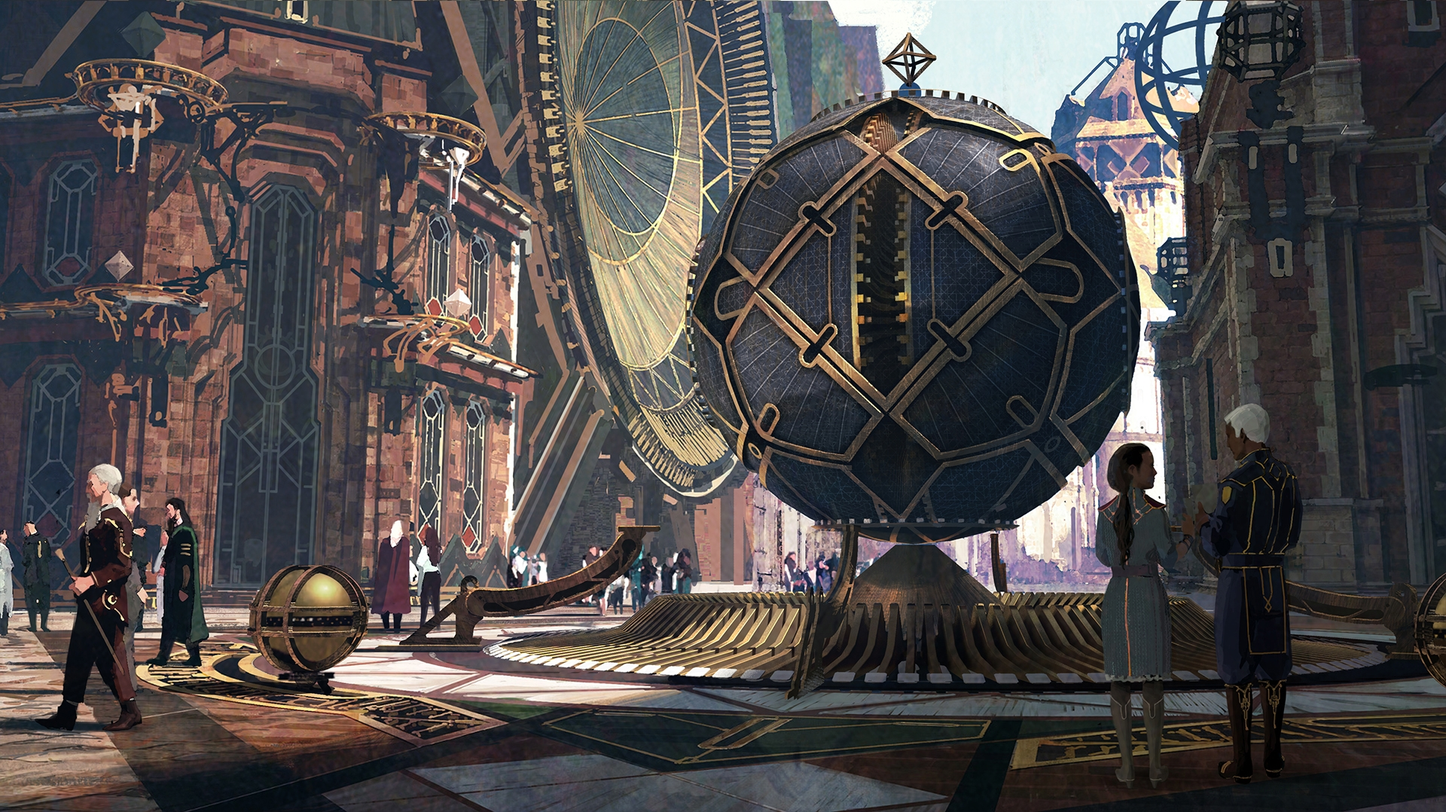
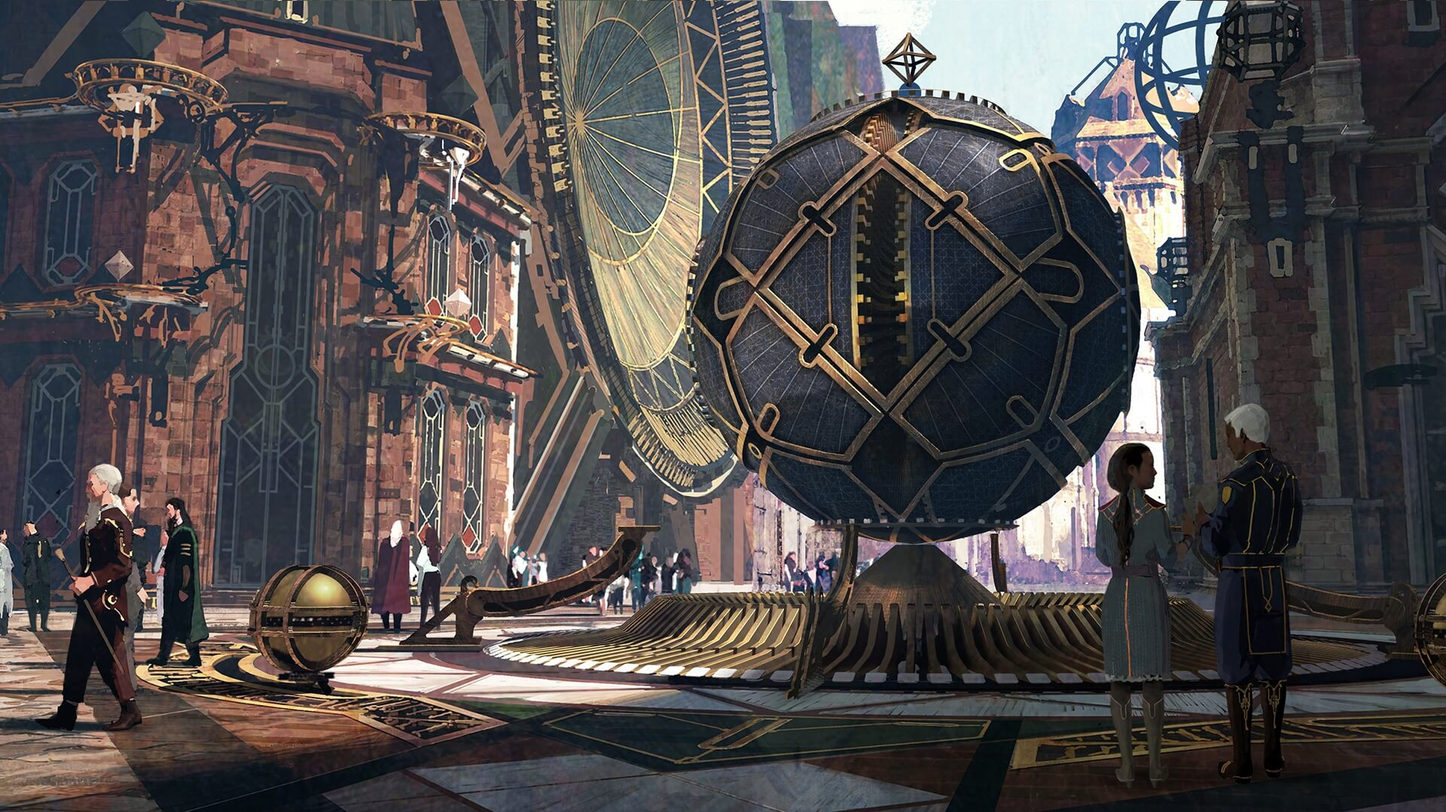
compresion de imagen y mejorando el rendimiento

diff --git a/index.html b/index.html
@@ -26,7 +26,7 @@
 <body>
     <header class="header">
         <div class="logo">
-            <a href="#"><img src="./img/logo/arcane_logo_freelogovectors.net_.png" alt="arcane logo" /></a>
+            <a href="#"><img src="https://lh3.googleusercontent.com/pImOIQNFSvZngOHh1W_eIHVp3qZNaP96nC9pD8wjGWYpblSEdJZ3_85JJfHnCHDLu1Xghpiffpw1s7b_6Vhs=w1058-h661-rw" alt="arcane logo" /></a>
         </div>
     </header>
     <main class="main">
@@ -39,7 +39,7 @@
         <div class="sinopsis" id="sinopsis">
             <div class="sinopsis-container">
                 <div class="poster">
-                    <img src="./img/Arcane_-_Poster.png" alt="arcane poster" />
+                    <img src="https://lh3.googleusercontent.com/VeOkqJjrgOUFWjEx9SxVjUsC7gG9MCB0sPgrHX4Cr2ZYn9fYstgqBGktcHQ8D_gtuqIRXHqITQA4V51-e_5l=w1058-h661-rw" alt="arcane poster" />
                 </div>
                 <div class="texto">
                     <h2>Sinopsis</h2>
@@ -68,31 +68,31 @@
                 <h2 class="title">Personajes</h2>
                 <div class="cards">
                     <div class="character-card">
-                        <img src="./img/personajes/jinx4.png" alt="Jinx" />
+                        <img src="https://lh6.googleusercontent.com/cXZNeW3BlNMH_AYotRVyyz2M2XXe-1PdzxgrK61iPbKTKxvOkKA5ualXay5FXoIDM9Pte-QvIEmh19jv3HQm=w1366-h597-rw" alt="Jinx" />
                         <h2 class="character-name">Jinx</h2>
                     </div>
                     <div class="character-card">
-                        <img src="./img/personajes/vi4.png" alt="Vi" />
+                        <img src="https://lh6.googleusercontent.com/zrBbmCH75bluqXVWIEhmTVeuy6YfLgx5G8dmvH2YET6w5xOjY9ieMnI63RMbMt_N8mHSL47xnKanUNb_gMYj=w1058-h597-rw" alt="Vi" />
                         <h2 class="character-name">Vi</h2>
                     </div>
                     <div class="character-card">
-                        <img src="./img/personajes/caitlyn4.png" alt="Caitlyn" />
+                        <img src="https://lh4.googleusercontent.com/yGtqhhnKHeExqdnWUmOEp-dDnKqMDlyOR0unxgdk0dStfN3hJqL8_NK2a3bwCtBb-w1k9Li6pMf7O4HV5EuH=w7680-h4320-rw" alt="Caitlyn" />
                         <h2 class="character-name">Caitlyn</h2>
                     </div>
                     <div class="character-card">
-                        <img src="./img/personajes/jayce4.png" alt="Jayce" />
+                        <img src="https://lh4.googleusercontent.com/mpcA8-Q02oyVs-lmoQDNfOh-3cTFydEIf4GVbfbfpHACs90jFS4uk3WcWvEjvxm-AV5ClkA6cIlR82R784kd=w1366-h597-rw" alt="Jayce" />
                         <h2 class="character-name">Jayce</h2>
                     </div>
                     <div class="character-card">
-                        <img src="./img/personajes/viktor4.png" alt="Viktor" />
+                        <img src="https://lh6.googleusercontent.com/4lR1Ec-s0MWjwI65hGNjGHqcxsKwMgY-nN9FDYzSYbWZG6_3kiWuaKQ7QAjl1c7nqPc8Ly8wVSeSpwZJi8hh=w1058-h661-rw" alt="Viktor" />
                         <h2 class="character-name">Viktor</h2>
                     </div>
                     <div class="character-card">
-                        <img src="./img/personajes/silco4.png" alt="Silco" />
+                        <img src="https://lh6.googleusercontent.com/FeCVrxWuCk0dz_yuYjLsKJtUYUA5N7Nx2FYe8nTihYFgHBwWwYvtLRMHAmiZYdV6dV71a7HGFi0zE5zE3hYl=w1058-h597-rw" alt="Silco" />
                         <h2 class="character-name">Silco</h2>
                     </div>
                     <div class="character-card">
-                        <img src="./img/personajes/vander4.png" alt="Si realmente es vander XD" />
+                        <img src="https://lh5.googleusercontent.com/Ib1REjASemFTIIYXTHA-kizfOTgl5cjQ12Axah6scqjmQiB0HArhKmNJ8hkejnBc2NGIPsGEvOc01y3O5md0=w1058-h597-rw" alt="Si realmente es vander XD" />
                         <h2 class="character-name">Vander</h2>
                     </div>
                 </div>
